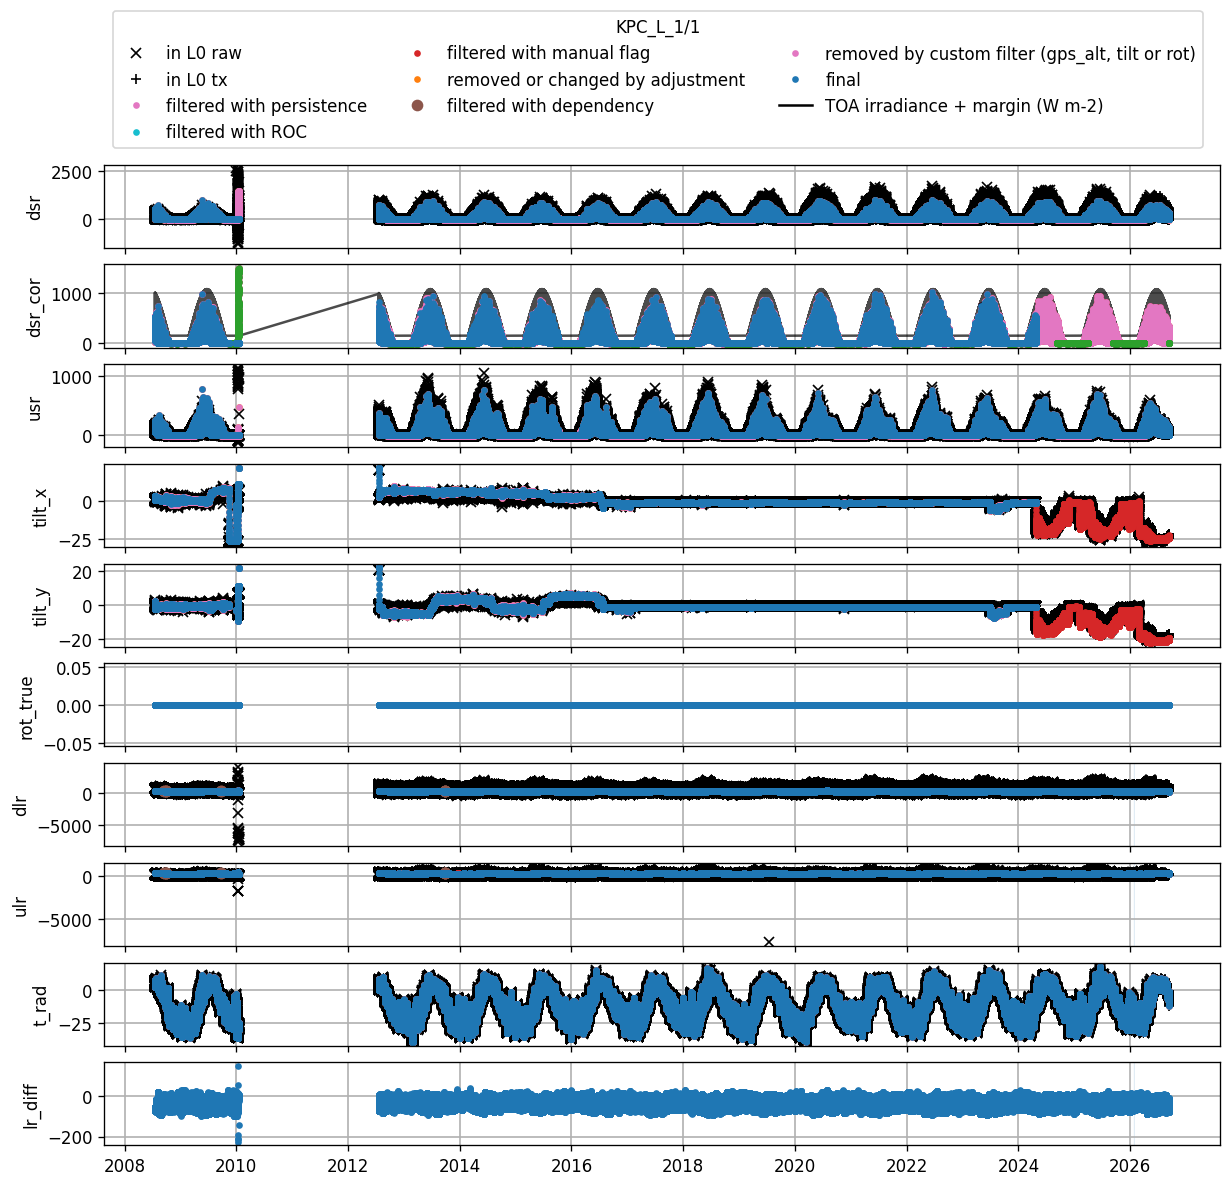
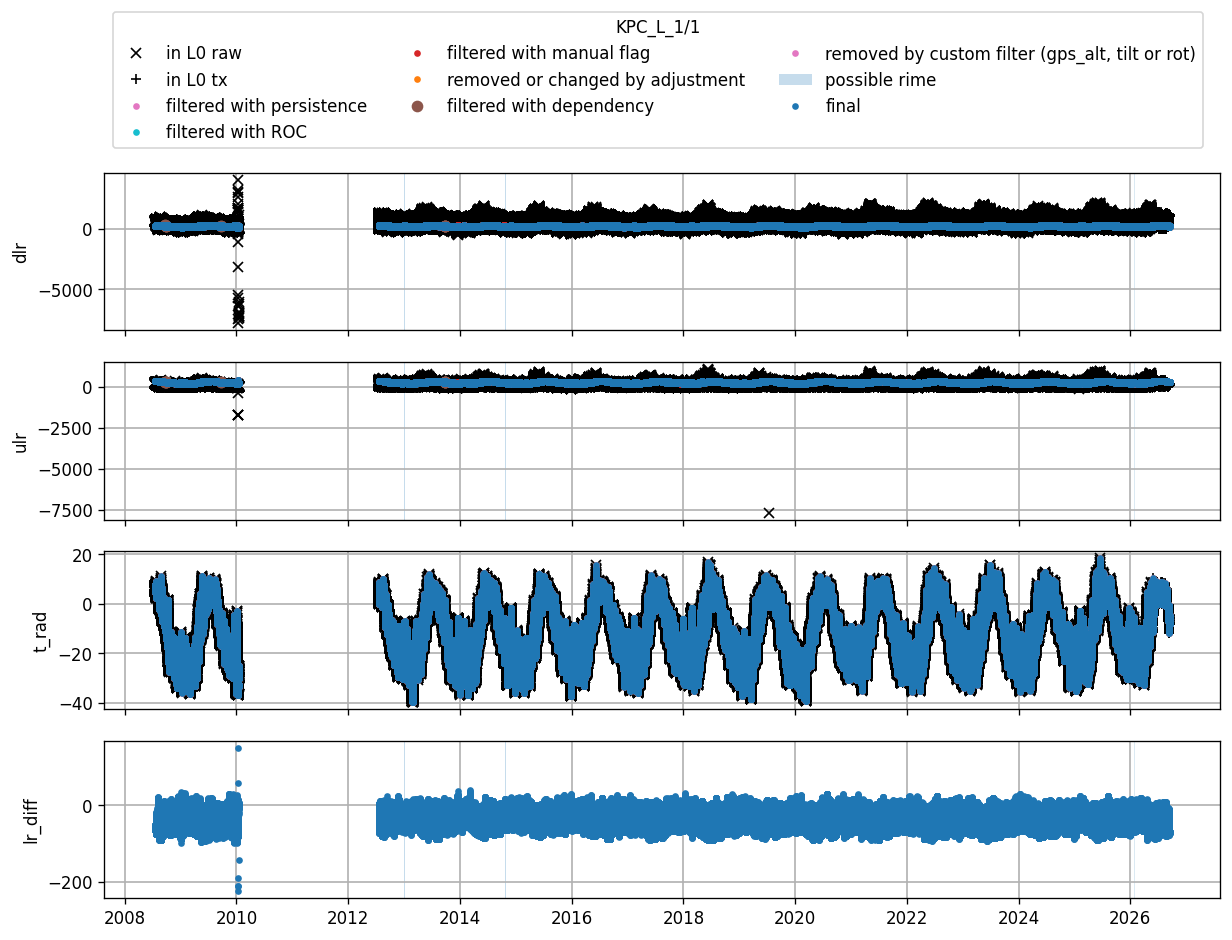
flagging

diff --git a/plot_flagged_data_old.py b/plot_flagged_data_old.py
@@ -49,6 +49,13 @@ def Msg(txt):
     f = open(filename, "a"); print(txt); f.write(txt + "\n")
 
 # plt.close('all')
+
+path_to_qc_files = '../PROMICE-AWS-data-issues/'
+all_dirs = os.listdir(path_to_qc_files+'adjustments' )+os.listdir(path_to_qc_files+'flags')
+var_file = os.path.join(os.path.dirname(pypromice.resources.__file__), "variables.csv")
+zoom_to_good = True
+
+
 def detect_rime(ds, threshold=3):
     sigma = 5.670374419e-8
 
@@ -74,16 +81,11 @@ def detect_rime(ds, threshold=3):
 
     # Return to original timestamps
     ds["rime_flag"] = flag.reindex(time=ds.time, method="ffill").astype(bool)
-
     return ds
 
-path_to_qc_files = '../PROMICE-AWS-data-issues/'
-all_dirs = os.listdir(path_to_qc_files+'adjustments' )+os.listdir(path_to_qc_files+'flags')
-var_file = os.path.join(os.path.dirname(pypromice.resources.__file__), "variables.csv")
-zoom_to_good = False
 
-for station in ['KPC_L']:
-    # for station in df_metadata.station_id:
+# for station in ['KPC_L']:
+for station in df_metadata.station_id:
     station = station.replace('.csv','')
     remove_old_plots(figure_folder, station)
     df_flags = load_flags_and_adjustments(path_to_qc_files, station)
@@ -125,12 +127,13 @@ for station in ['KPC_L']:
     for var in ["t", "rh","p","wspd"]:
         if (var+'_u' in ds_final.data_vars) and (var+'_l' in ds_final.data_vars):
             ds_final[var+'_diff'] = ds_final[var+'_u'] - ds_final[var+'_l']
-    if ('rh_u_wrt_ice_or_water' in ds_final.data_vars) and ('rh_l_wrt_ice_or_water' in ds_final.data_vars):
-        ds_final['rh_wrt_ice_or_water_diff'] = ds_final['rh_u_wrt_ice_or_water'] - ds_final['rh_l_wrt_ice_or_water']
+    if ('rh_u_wrt_ice_or_water' in ds_final.data_vars) \
+        and ('rh_l_wrt_ice_or_water' in ds_final.data_vars):
+        ds_final['rh_wrt_ice_or_water_diff'] = ds_final['rh_u_wrt_ice_or_water'] \
+            - ds_final['rh_l_wrt_ice_or_water']
 
     ds_final['lr_diff'] = ds_final['dlr'] - ds_final['ulr']
-    ds_final = detect_rime(ds_final, threshold=3)
-
+    ds_final = detect_rime(ds_post_roc, threshold=3)
 
     # %%  plotting
     df_L1 = ds.to_dataframe().copy()
@@ -145,8 +148,8 @@ for station in ['KPC_L']:
                         # 'p_u','p_l','p_i',
                         # 'wspd_u','wspd_l','wspd_i',
                         # 'wdir_u','wdir_l','wdir_i',
-                        'dsr','dsr_cor','usr',#'albedo',
-                        'tilt_x','tilt_y',"rot_true",
+                        # 'dsr','dsr_cor','usr',#'albedo',
+                        # 'tilt_x','tilt_y',"rot_true",
                         "dlr","ulr","t_rad", 'lr_diff',
                         # 't_i_1','t_i_2','t_i_8',
                         # 'z_boom_l','z_boom_cor_l',
